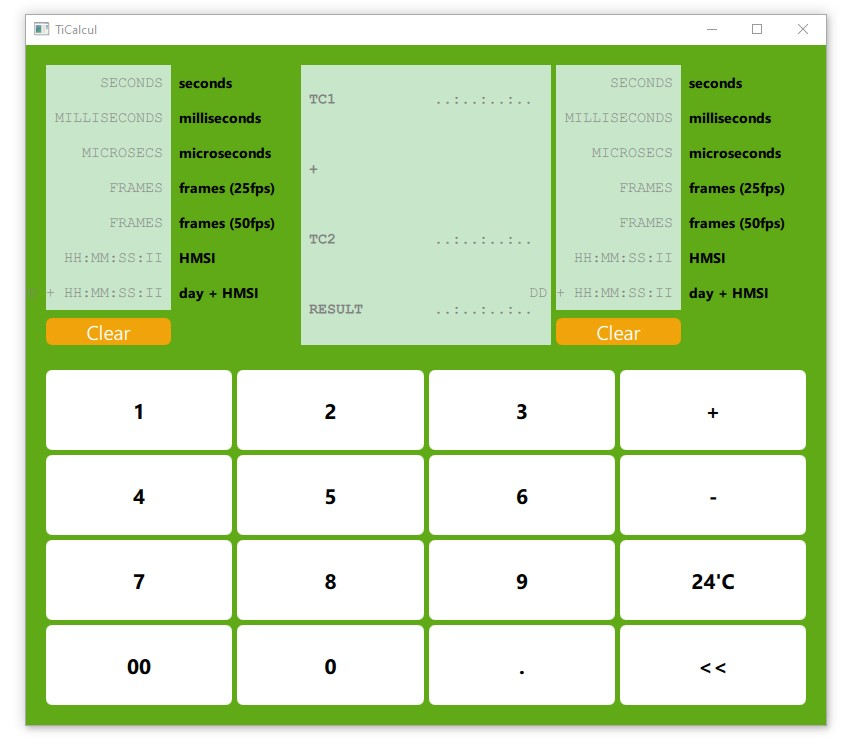
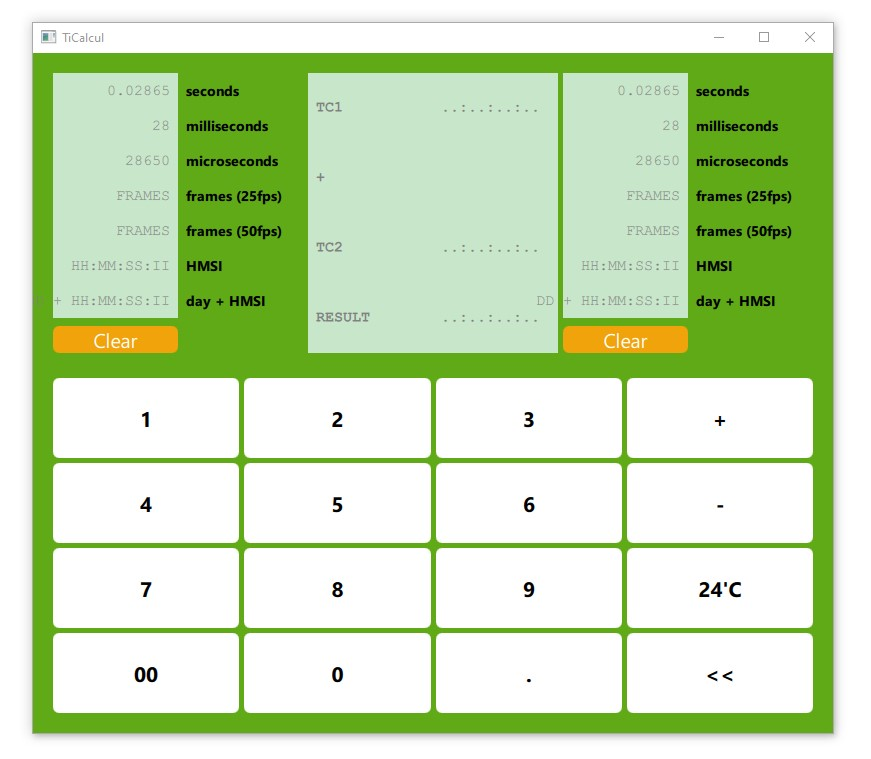
Propagation et affichage de la valeur pivot

diff --git a/Qml/Components/ConvertFrame.qml b/Qml/Components/ConvertFrame.qml
@@ -13,7 +13,8 @@ Item {
         columns: 2
 
         FieldInput {
-            text: "SECONDS"
+            // text: "SECONDS"
+            text: aff_1.value
             Layout.fillHeight: true
             Layout.fillWidth: true
         }
@@ -23,7 +24,8 @@ Item {
             Layout.fillWidth: true
         }
         FieldInput {
-            text: "MILLISECONDS"
+            //text: "MILLISECONDS"
+            text: aff_2.value
             Layout.fillHeight: true
             Layout.fillWidth: true
         }
@@ -33,7 +35,8 @@ Item {
             Layout.fillWidth: true
         }
         FieldInput {
-            text: "MICROSECS"
+            // text: "MICROSECS"
+            text: aff_3.value
             Layout.fillHeight: true
             Layout.fillWidth: true
         }

diff --git a/Sources/afficheur.cpp b/Sources/afficheur.cpp
@@ -14,7 +14,8 @@
      *****************************************************************/
     Afficheur::Afficheur(Unites::Units unit, QObject *parent)
         {
-            this->mValue = "";
+            this->mValue = "UNDEFINED";
+            this->mUnit = unit;
             this->mName = Unites::name.value(unit);
             this->mDecimals = Unites::nbDecimals.value(unit);   // nombre de chiffres après la virgule
             this->mMaxValue = Unites::maxValue.value(unit);     // valeur max : 99 heures.
@@ -256,12 +257,42 @@
         }
 
     /** ***************************************************************
-     * Renvoie le nom de l'unité correspondante.
-     * @return the name of the unit
+     * SLOT. Recoit la valeur numérique à afficher.
+     * @param value La valeur pivot en microsecondes.
      ******************************************************************/
-        void Afficheur::setValue(qint64 value)
+        void Afficheur::setValue(qint64 microsecs)
         {
-            // TODO : gérer ici les conversions
-            this->mValue.setNum(value);
+            QString value = "NONE";
+            switch (mUnit)
+            {
+                case Unites::HMSI:
+                value = Converter::microsecsToHMSI(microsecs, mFrameRate);
+                    break;
+                case Unites::DHMSM:
+                    value = Converter::microsecsToDHMSM(microsecs);
+                    break;
+                case Unites::FRAMES_25:
+                    value = Converter::microsecsToFrames(microsecs, 25);
+                    break;
+                case Unites::FRAMES_50:
+                    value = Converter::microsecsToFrames(microsecs, 50);
+                    break;
+                case Unites::FRAMES_NTSC:
+                    value = Converter::microsecsToFrames(microsecs, 30);
+                    break;
+                case Unites::SECONDS:
+                    value = Converter::microsecsToSeconds(microsecs);
+                    break;
+                case Unites::MILLISECONDS:
+                    value = Converter::microsecsToMillis(microsecs);
+                    break;
+                case Unites::MICROSECONDS:
+                    value.setNum(microsecs);
+                    break;
+                default:
+                    value="UNKNOWN UNIT";
+            }
+
+            this->mValue= value;
         }
 

diff --git a/Sources/operande.cpp b/Sources/operande.cpp
@@ -1,15 +1,19 @@
+// #include <QQmlApplicationEngine>
+// #include <QQmlContext>
 #include "operande.h"
-#include "afficheur.h"
 
 Operande::Operande(QObject *parent)
 {
 
-    Afficheur a1(Unites::SECONDS);
-    Afficheur a2(Unites::MILLISECONDS);
+    a1 = new Afficheur(Unites::SECONDS);
+    a2 = new Afficheur(Unites::MILLISECONDS);
+    a3 = new Afficheur(Unites::MICROSECONDS);
 
     // Connexions
-    QObject::connect(this, SIGNAL(valeurPivotChanged()), &a1, SLOT(setValue()));
-    QObject::connect(this, SIGNAL(valeurPivotChanged()), &a2, SLOT(setValue()));
+    QObject::connect(this, SIGNAL(valeurPivotChanged(qint64)), a1, SLOT(setValue(qint64)));
+    QObject::connect(this, SIGNAL(valeurPivotChanged(qint64)), a2, SLOT(setValue(qint64)));
+    QObject::connect(this, SIGNAL(valeurPivotChanged(qint64)), a3, SLOT(setValue(qint64)));
+
 }
 
 qint64 Operande::valeurPivot() const
@@ -17,10 +21,25 @@ qint64 Operande::valeurPivot() const
     return mValeurPivot;
 }
 
+/*! ********************************************************************************************
+ * \brief Reçoit et propage la nouvelle valeur pivot aux afficheurs.
+ * \param newValeurPivot Timecode en microsecondes.
+ */
 void Operande::setValeurPivot(qint64 newValeurPivot)
 {
     mValeurPivot = newValeurPivot;
     emit valeurPivotChanged(mValeurPivot);
+}
+
+/*! ********************************************************************************************
+ * \brief Enregistre les afficheurs dans le contexte QML, pour pouvoir les afficher.
+ * \param context Le root context de l'application.
+ */
+void Operande::registerContext(QQmlContext* context)
+{
+    context->setContextProperty("aff_1", a1);
+    context->setContextProperty("aff_2", a2);
+    context->setContextProperty("aff_3", a3);
 }
 
 

diff --git a/main.cpp b/main.cpp
@@ -1,7 +1,9 @@
 #include <QGuiApplication>
 #include <QQmlApplicationEngine>
+#include <QQmlContext>
 #include <QIcon>
 
+#include "Sources/operande.h"
 
 /* ********************************************************************************* */
 /*!
@@ -9,7 +11,7 @@
  * \param argc
  * \param argv
  * \return
- */
+ * ******************************************************************************** */
 int main(int argc, char *argv[])
 {
     QGuiApplication app(argc, argv);
@@ -20,9 +22,22 @@ int main(int argc, char *argv[])
     app.setWindowIcon(QIcon(":/images/TiCalcul.ico"));
 
     // --------------------------------------
+    // On initialise nos classes
+    // --------------------------------------
+    Operande operande_tc1;
+    //Operande operande_tc2();
+
+    // --------------------------------------
     // Initialisation du moteur:
     // --------------------------------------
     QQmlApplicationEngine engine;
+    QQmlContext* context = engine.rootContext();
+
+    // --------------------------------------
+    // On ajoute au contexte les classes qui ont des property QML
+    // --------------------------------------
+    context->setContextProperty("operandeTC1", &operande_tc1);
+    operande_tc1.registerContext(context);
 
     // --------------------------------------
     // Connexion des signaux
@@ -32,6 +47,8 @@ int main(int argc, char *argv[])
                      {
                          QCoreApplication::exit(-1);
                      }, Qt::QueuedConnection);
+
+    operande_tc1.setValeurPivot(28650);
 
     // --------------------------------------
     // Démarrage du moteur.

diff --git a/Sources/afficheur.h b/Sources/afficheur.h
@@ -7,7 +7,6 @@
 class Afficheur : public QObject
 {
     Q_OBJECT
-
     Q_PROPERTY(QString value MEMBER mValue NOTIFY valueChanged)
 
     // ------------------------------------------------------------
@@ -17,11 +16,13 @@ private:
     QString mName;         // Le nom de l'afficheur
     long mMaxValue;        // Valeur maximale autorisée
     QString mValue;        // La valeur à afficher (String)
+    Unites::Units mUnit;
 
 protected:
     double mConversionFacteur; // Nombre de microseconds par unité
     int mDecimals;             // Nombre de chiffres après la virgule
     double mFrameRate;         // Framerate utilisé (pour les afficheurs FRAMES et HMSI)
+
 
     // ------------------------------------------------------------
     // Méthodes

diff --git a/Sources/operande.h b/Sources/operande.h
@@ -2,6 +2,9 @@
 #define OPERANDE_H
 
 #include <QObject>
+#include <QQmlContext>
+#include "afficheur.h"
+
 
 class Operande : public QObject
 {
@@ -12,12 +15,17 @@ public:
 
     qint64 valeurPivot() const;
     void setValeurPivot(qint64 newValeurPivot);
+    void registerContext(QQmlContext* context);
+
+signals:
+    void valeurPivotChanged(qint64);
 
 private:
     qint64 mValeurPivot;
 
-signals:
-    void valeurPivotChanged(qint64);
+    Afficheur* a1;
+    Afficheur* a2;
+    Afficheur* a3;
 };
 
 #endif // OPERANDE_H
